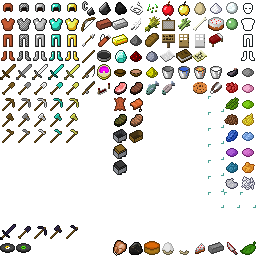
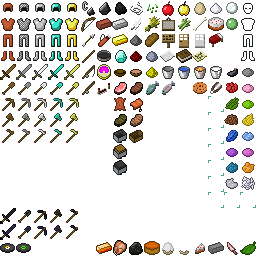
Textures for Onyx Tools
I added textures to onyx tools, and there is a hint of Copper

diff --git a/src/minecraft_server/net/minecraft/src/B2BItems.java b/src/minecraft_server/net/minecraft/src/B2BItems.java
@@ -48,11 +48,11 @@ public class B2BItems {
     public static Item onyxStone = (new Item(216)).setIconCoord(8, 15).setItemName("onyx");
     public static Item chicken = (new ItemFood(217, 6, false, false, null)).setIconCoord(7 , 15).setItemName("chicken");
     public static Item fireball = (new ItemFireball(218).setIconCoord(14, 0).setItemName("fireball"));
-  public static Item swordOnyx = (new ItemSword(219, EnumToolMaterial.ONYX)).setIconCoord(0, 14).setItemName("swordOnyx");
-  public static Item shovelOnyx = (new ItemSpade(220, EnumToolMaterial.ONYX)).setIconCoord(1, 14).setItemName("shovelOnyx");
-  public static Item pickaxeOnyx = (new ItemPickaxe(221, EnumToolMaterial.ONYX)).setIconCoord(2, 14).setItemName("pickaxeOnyx");
-  public static Item axeOnyx = (new ItemAxe(222, EnumToolMaterial.ONYX)).setIconCoord(3, 14).setItemName("hatchetOnyx");
-  public static Item hoeOnyx = (new ItemHoe(223, EnumToolMaterial.ONYX)).setIconCoord(4, 14).setItemName("hoeOnyx");
+  public static Item swordOnyx = (new ItemSword(219, EnumToolMaterial.ONYX)).setIconCoord(0, 13).setItemName("swordOnyx");
+  public static Item shovelOnyx = (new ItemSpade(220, EnumToolMaterial.ONYX)).setIconCoord(1, 13).setItemName("shovelOnyx");
+  public static Item pickaxeOnyx = (new ItemPickaxe(221, EnumToolMaterial.ONYX)).setIconCoord(2, 13).setItemName("pickaxeOnyx");
+  public static Item axeOnyx = (new ItemAxe(222, EnumToolMaterial.ONYX)).setIconCoord(3, 13).setItemName("hatchetOnyx");
+  public static Item hoeOnyx = (new ItemHoe(223, EnumToolMaterial.ONYX)).setIconCoord(4, 13).setItemName("hoeOnyx");
 //  Reserved for 1.8.3
 }
 

diff --git a/src/minecraft/net/minecraft/src/B2BItems.java b/src/minecraft/net/minecraft/src/B2BItems.java
@@ -48,10 +48,10 @@ public class B2BItems {
     public static Item onyxStone = (new Item(216)).setIconCoord(8, 15).setItemName("onyx");
     public static Item chicken = (new ItemFood(217, 6, false, false, null)).setIconCoord(7 , 15).setItemName("chicken");
     public static Item fireball = (new ItemFireball(218).setIconCoord(14, 0).setItemName("fireball"));
-    public static Item swordOnyx = (new ItemSword(219, EnumToolMaterial.ONYX)).setIconCoord(0, 14).setItemName("swordOnyx");
-    public static Item shovelOnyx = (new ItemSpade(220, EnumToolMaterial.ONYX)).setIconCoord(1, 14).setItemName("shovelOnyx");
-    public static Item pickaxeOnyx = (new ItemPickaxe(221, EnumToolMaterial.ONYX)).setIconCoord(2, 14).setItemName("pickaxeOnyx");
-    public static Item axeOnyx = (new ItemAxe(222, EnumToolMaterial.ONYX)).setIconCoord(3, 14).setItemName("hatchetOnyx");
-    public static Item hoeOnyx = (new ItemHoe(223, EnumToolMaterial.ONYX)).setIconCoord(4, 14).setItemName("hoeOnyx");
+    public static Item swordOnyx = (new ItemSword(219, EnumToolMaterial.ONYX)).setIconCoord(0, 13).setItemName("swordOnyx");
+    public static Item shovelOnyx = (new ItemSpade(220, EnumToolMaterial.ONYX)).setIconCoord(1, 13).setItemName("shovelOnyx");
+    public static Item pickaxeOnyx = (new ItemPickaxe(221, EnumToolMaterial.ONYX)).setIconCoord(2, 13).setItemName("pickaxeOnyx");
+    public static Item axeOnyx = (new ItemAxe(222, EnumToolMaterial.ONYX)).setIconCoord(3, 13).setItemName("hatchetOnyx");
+    public static Item hoeOnyx = (new ItemHoe(223, EnumToolMaterial.ONYX)).setIconCoord(4, 13).setItemName("hoeOnyx");
 }
 
